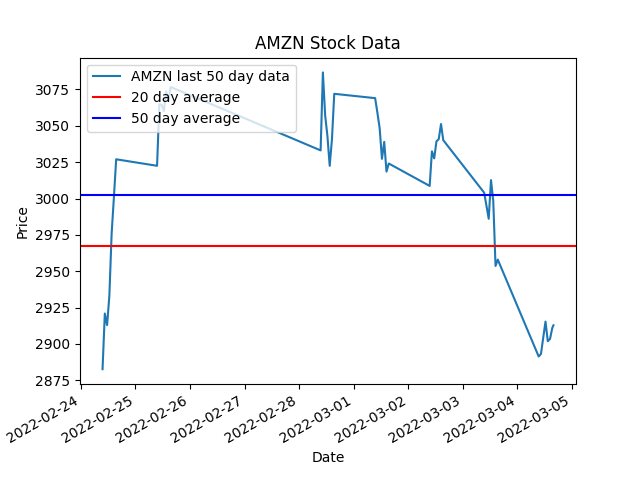
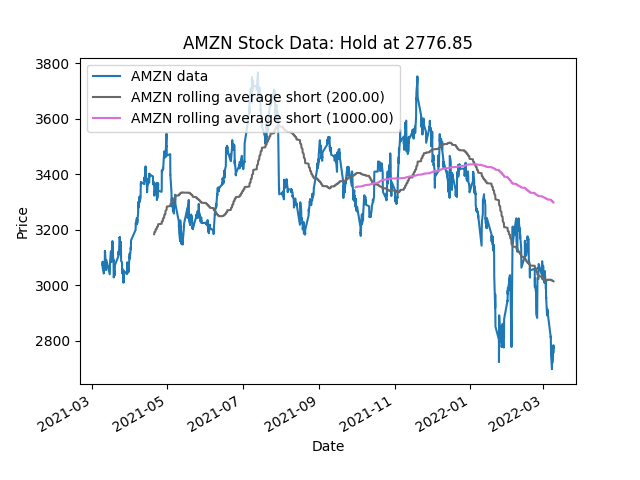
Updated stock tracker

diff --git a/stock-tracker.py b/stock-tracker.py
@@ -9,27 +9,45 @@ from email.mime.multipart import MIMEMultipart
 from email import encoders
 import telegram_send as ts
 import logging
-import robin_stocks as r
-from stock_analyzer import Stockalyzer
+import robin_stocks.robinhood as r
 from datetime import datetime
+import argparse
+import yfinance as yf
+
+from stock_analyzer import Stockalyzer
+from password_handler import PasswordHandler
+
+# Command line arguments
+parser = argparse.ArgumentParser()
+parser.add_argument('-v', '--verbose', action='count', default=0)
+args = parser.parse_args()
 
 # Logging
 logging.basicConfig(filename='stocktracker.log', encoding='utf-8', level=logging.INFO)
 
-# Email
-gmail_user = 'stocknomitron@gmail.com' #os.environ['GMAIL_USER']
-gmail_password = 'Stock$$69420' #os.environ['GMAIL_PASSWORD']
+# Retrieve stored passwords
+ph = PasswordHandler()
 
-to_list = ['niallcdevlin@gmail.com'] #[os.environ['TO_LIST']]
+# Email
+gmail_user = 'stocknomitron@gmail.com'
+gmail_password = ph.getPassword(gmail_user)
+
+to_list = ['niallcdevlin@gmail.com']
+
+# Robinhood
+r_user = 'devnomitron'
+ph.storePassword(r_user, 'ncd118*ABC')
+r_pass = ph.getPassword(r_user)
+login = r.login(r_user,r_pass)
 
 # Stock lists
 stock_list = np.array(['MSFT', 'VOO', 'VTI', 'COST', 'AMZN', 'AAPL', 'BAC'])
 # 0 - Buy, 1 - Sell, 2 - Both
 autotrade_stocks = {'MSFT':{'trade_type':2, 'trade_amount':1},
-                    'VOO':{'trade_type':2, 'trade_amount':1}
+                    'VOO':{'trade_type':2, 'trade_amount':1},
                     'VTI':{'trade_type':2, 'trade_amount':1}}
 autotrade = False
-tickers = np.array()
+tickers = []
 stock_status = {}
 robin_actions = {}
 
@@ -44,17 +62,27 @@ for stock in stock_list:
 	stockbot.saveAsPng(f"{stock}.png")
 	stock_status[stock] = {'analysis':analysis, 'price':price}
 
+	if args.verbose == 1:
+		print(f"{analysis} {stock} at {price}")
+
+	if args.verbose == 2:
+		stockbot.display()
+
 	if autotrade:
-		if analysis = 'Buy':
+		if analysis == 'Buy':
 				if stock in autotrade_stocks and autotrade_stocks[stock]['trade_type'] in (0, 2):
 					r.order_buy_market(stock, autotrade_stocks[stock]['trade_amount'])
 					robin_actions[stock] = "Bought"
 					logging.info("Bought {}".format(stock))
-		elif analysis = 'Sell':
+					if args.verbose == 1:
+						print("Bought {}".format(stock))
+		elif analysis == 'Sell':
 				if stock in autotrade_stocks and autotrade_stocks[stock]['trade_type'] in (1, 2):
 					r.order_sell_market(stock, autotrade_stocks[stock]['trade_amount'])
 					robin_actions[stock] = "Sold"
 					logging.info("Sold {}".format(stock))
+					if args.verbose == 1:
+						print("Sold {}".format(stock))
 
 r.export_completed_stock_orders(".")
 sent_from = gmail_user
@@ -73,33 +101,46 @@ for stock in stock_status:
 ts.send(messages=messages)
 
 for to in to_list:
-    msg = MIMEMultipart()
-    msg['Subject'] = subject
-    msg['From'] = sent_from
-    msg['To'] = to
+	msg = MIMEMultipart()
+	msg['Subject'] = subject
+	msg['From'] = sent_from
+	msg['To'] = to
 
-    txt = MIMEText(body)
-    msg.attach(txt);
+	txt = MIMEText(body)
+	msg.attach(txt);
 
-    for stock in stock_list:
-        # set attachment mime and file name, the image type is png
-        stock_img_file = f"{stock}.png"
-        with open(stock_img_file, 'rb') as f:
-            mime = MIMEImage(f.read(), name=os.path.basename(stock_img_file))
-            # add required header data:
-            mime.add_header('Content-Disposition', 'attachment', filename=stock_img_file)
-            mime.add_header('X-Attachment-Id', '0')
-            mime.add_header('Content-ID', '<0>')
-            # encode with base64
-            encoders.encode_base64(mime)
-            # add MIMEBase object to MIMEMultipart object
-            msg.attach(mime)
-    s = smtplib.SMTP('smtp.gmail.com', 587)
-    s.ehlo()
-    s.starttls()
-    s.ehlo()
-    s.login(gmail_user, gmail_password)
-    s.sendmail(gmail_user, to, msg.as_string())
-    s.quit()
-    print("Email sent to", to)
-    logging.info(f"Email sent to {to}")
+	for stock in stock_list:
+		# set attachment mime and file name, the image type is png
+		stock_img_file = f"{stock}.png"
+		try:
+			with open(stock_img_file, 'rb') as f:
+				mime = MIMEImage(f.read(), name=os.path.basename(stock_img_file))
+				# add required header data:
+				mime.add_header('Content-Disposition', 'attachment', filename=stock_img_file)
+				mime.add_header('X-Attachment-Id', '0')
+				mime.add_header('Content-ID', '<0>')
+				# encode with base64
+				encoders.encode_base64(mime)
+				# add MIMEBase object to MIMEMultipart object
+				msg.attach(mime)
+
+		except:
+			if args.verbose == 1:
+				print(f"Failed to attach file {stock_img_file}")
+			logging.warning(f"Failed to attach file {stock_img_file}")
+
+	try:
+		s = smtplib.SMTP('smtp.gmail.com', 587)
+		s.ehlo()
+		s.starttls()
+		s.ehlo()
+		s.login(gmail_user, gmail_password)
+		s.sendmail(gmail_user, to, msg.as_string())
+		s.quit()
+		if args.verbose == 1:
+			print(f"Email sent to {to}")
+		logging.info(f"Email sent to {to}")
+	except:
+		logging.error(f"Failed to send email to {to}")
+		if args.verbose == 1:
+			print(f"Failed to send email to {to}")

diff --git a/stock_analyzer.py b/stock_analyzer.py
@@ -4,13 +4,6 @@ import pandas as pd
 import yfinance as yf
 import matplotlib.pyplot as plt
 from datetime import datetime, timedelta
-from collections import deque
-import argparse
-import pickle
-
-parser = argparse.ArgumentParser()
-parser.add_argument('-v', '--verbose', action='count', default=0)
-args = parser.parse_args()
 
 class Stockalyzer:
 	def __init__(self, stock, ticker, history, short_avg=200, long_avg=1000, pgd=8, sda=2):
@@ -40,7 +33,7 @@ class Stockalyzer:
 		Return: string 'Buy', 'Sell', or 'Hold'
 		"""
 		data = self.getStockData()
-		return runAnalysis(data)
+		return self.runAnalysis(data)
 
 	def runAnalysis(self, dataset):
 		"""
@@ -56,13 +49,13 @@ class Stockalyzer:
 		short_avg = dataset[-1 * self.short_avg:].mean()
 		long_avg = dataset[-1 * self.long_avg:].mean()
 		if short_avg - long_avg > self.pgd and short_avg - long_avg < self.pgd + self.sda:
-			analysis = 'Buy'
+			self.analysis = 'Buy'
 			return 'Buy'
 		elif long_avg - short_avg > self.pgd and long_avg - short_avg < self.pgd + self.sda:
-			analysis = 'Sell'
+			self.analysis = 'Sell'
 			return 'Sell'
 		else:
-			analysis = 'Hold'
+			self.analysis = 'Hold'
 			return 'Hold'
 
 	def getStockData(self):
@@ -75,7 +68,7 @@ class Stockalyzer:
 		"""
 		Returns current price of stock
 		"""
-		return self.ticker.info['currentPrice']
+		return self.history['Close'][-1]
 
 	def display(self):
 		"""
@@ -83,11 +76,11 @@ class Stockalyzer:
 		"""
 		hist = self.getStockData()
 		hist.plot(label="{} data".format(self.stock))
-		if analysis = 'Buy':
+		if self.analysis == 'Buy':
 			color = 'chartreuse'
-		elif analysis = 'Sell':
+		elif self.analysis == 'Sell':
 			color = 'r'
-		elif analysis = 'Hold':
+		elif self.analysis == 'Hold':
 			color = 'dimgray'
 		rl_avg_s = hist.rolling(window=self.short_avg).mean()
 		rl_avg_s.plot(color=color, label="{} rolling average short ({:.2f})".format(self.stock, self.short_avg))
@@ -95,7 +88,7 @@ class Stockalyzer:
 		rl_avg_l.plot(color='orchid', label="{} rolling average short ({:.2f})".format(self.stock, self.long_avg))
 		plt.xlabel("Date")
 		plt.ylabel("Price")
-		plt.title("{} Stock Data: {} at {:.2f}".format(stock, analysis, self.getCurrentPrice()))
+		plt.title("{} Stock Data: {} at {:.2f}".format(self.stock, self.analysis, self.getCurrentPrice()))
 		plt.legend(loc='upper left')
 		plt.show()
 		plt.clf()
@@ -105,15 +98,15 @@ class Stockalyzer:
 		Saves graph as png to filename
 		If none specified, defaults to {stock}.png
 		"""
-		if !filename:
-			filename = '{}.png'.format(stock)
+		if filename == '':
+			filename = '{}.png'.format(self.stock)
 		hist = self.getStockData()
 		hist.plot(label="{} data".format(self.stock))
-		if analysis = 'Buy':
+		if self.analysis == 'Buy':
 			color = 'chartreuse'
-		elif analysis = 'Sell':
+		elif self.analysis == 'Sell':
 			color = 'r'
-		elif analysis = 'Hold':
+		elif self.analysis == 'Hold':
 			color = 'dimgray'
 		rl_avg_s = hist.rolling(window=self.short_avg).mean()
 		rl_avg_s.plot(color=color, label="{} rolling average short ({:.2f})".format(self.stock, self.short_avg))
@@ -121,12 +114,12 @@ class Stockalyzer:
 		rl_avg_l.plot(color='orchid', label="{} rolling average short ({:.2f})".format(self.stock, self.long_avg))
 		plt.xlabel("Date")
 		plt.ylabel("Price")
-		plt.title("{} Stock Data: {} at {:.2f}".format(stock, analysis, self.getCurrentPrice()))
+		plt.title("{} Stock Data: {} at {:.2f}".format(self.stock, self.analysis, self.getCurrentPrice()))
 		plt.legend(loc='upper left')
 		plt.savefig(filename)
 		plt.clf()
 
-	def runSimulation(self, startingBalance, buyAmount, startingStock=0):
+	def runSimulation(self, startingBalance, buyAmount, startingStock=0, verbose=False):
 		"""
 		Runs simulation on stock history. Analysis is run on stock data to a certain date
 		Starts with given balance and starting stock (default 0) and invests based on
@@ -147,23 +140,23 @@ class Stockalyzer:
 			if len(data_slice) > self.short_avg:
 				current_price = data_slice[-1]
 				analysis = runAnalysis(data_slice)
-				if analysis == 'Buy'
+				if analysis == 'Buy':
 					if ba * current_price <= balance:
 						balance -= ba * current_price
 						num_stock += ba
-						if args.verbose:
+						if verbose:
 							print("Bought {} of {} at {}".format(ba, self.stock, current_price))
 					else:
-						if args.verbose:
+						if verbose:
 							print("Not Bought {} of {} at {}".format(ba, self.stock, current_price))
-				elif analysis == 'Sell'
+				elif analysis == 'Sell':
 					if num_stock >= ba:
 						balance += ba * current_price
 						num_stock -= ba
-						if args.verbose:
+						if verbose:
 							print("Sold {} of {} at {}".format(ba, self.stock, current_price))
 					else:
-						if args.verbose:
+						if verbose:
 							print("Not Sold {} of {} at {}".format(ba, self.stock, current_price))
 				else:
 					if printHold:

diff --git a/password_handler.py b/password_handler.py
@@ -1,0 +1,39 @@
+from cryptography.fernet import Fernet 
+import json
+
+class PasswordHandler:
+	def __init__(self, passFile='passwords.json', keyFile='key.key'):
+		self.filename = passFile
+		self.key_file = keyFile
+		with open(self.key_file, "rb") as kf:
+			self.key = kf.read()
+		f = Fernet(self.key)
+		with open(self.filename, 'rb') as fp:
+			encrypted_passwords = fp.read()
+		self.passwords = f.decrypt(encrypted_passwords)
+		self.passwords = json.loads(self.passwords)
+
+	def getAll(self):
+		return self.passwords
+
+	def getPassword(self, account):
+		if account in self.passwords.keys():
+			return self.passwords[account]
+		else:
+			return None
+
+	def storePassword(self, account, password):
+		self.passwords[account] = password
+		self.storeToFile()
+
+	def changeAccountName(self, oldAcc, newAcc):
+		if oldAcc in self.passwords.keys():
+			self.passwords[newAcc] = self.passwords.pop(oldAcc)
+			self.storeToFile()
+
+	def storeToFile(self):
+		j = json.dumps(self.passwords).encode()
+		f = Fernet(self.key)
+		ep = f.encrypt(j)
+		with open(self.filename, 'wb') as fp:
+			fp.write(ep)
